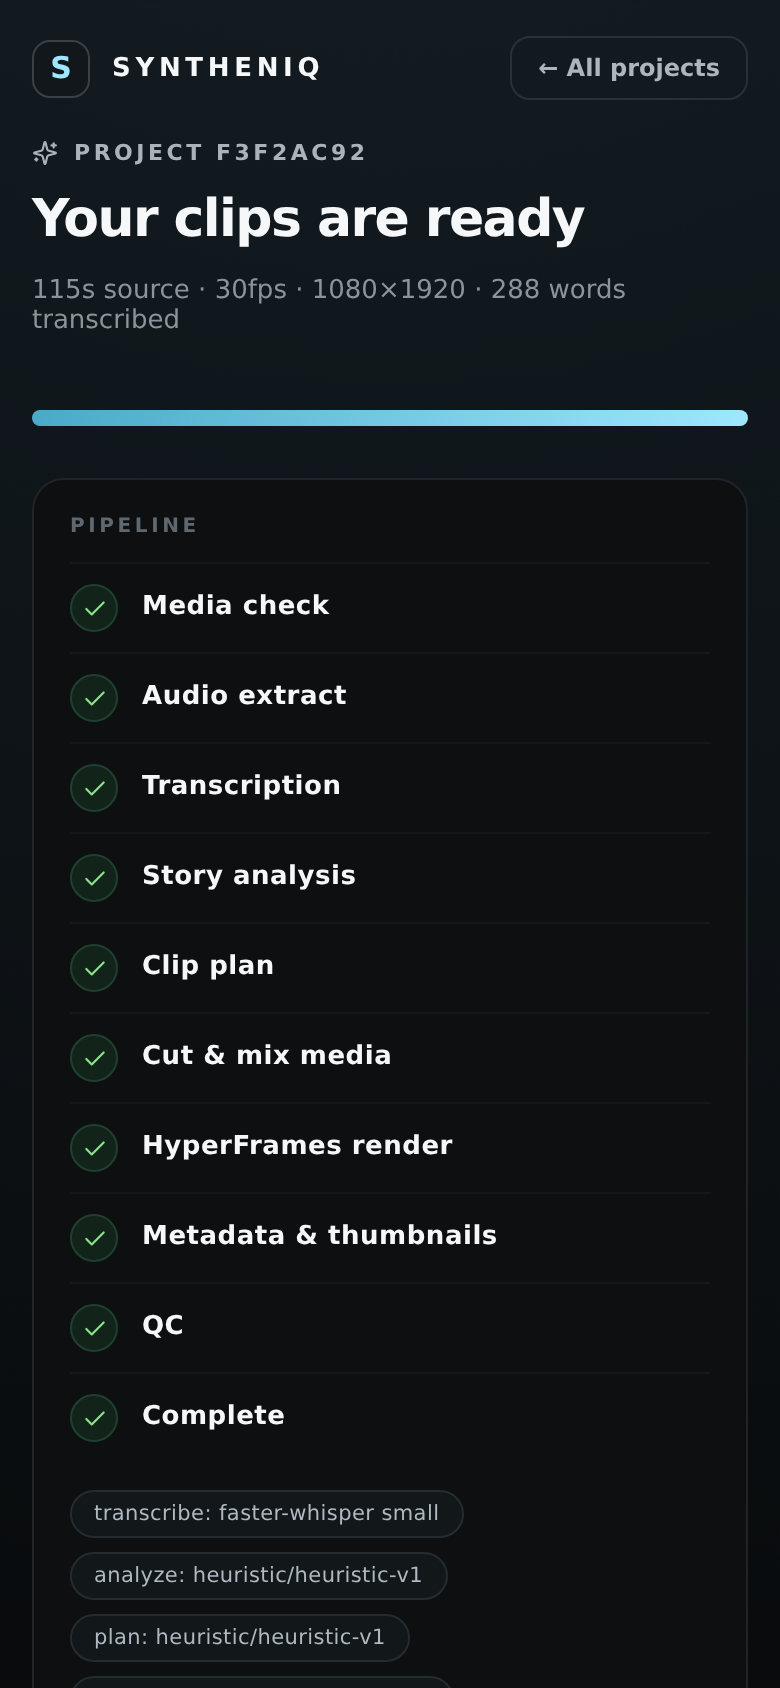
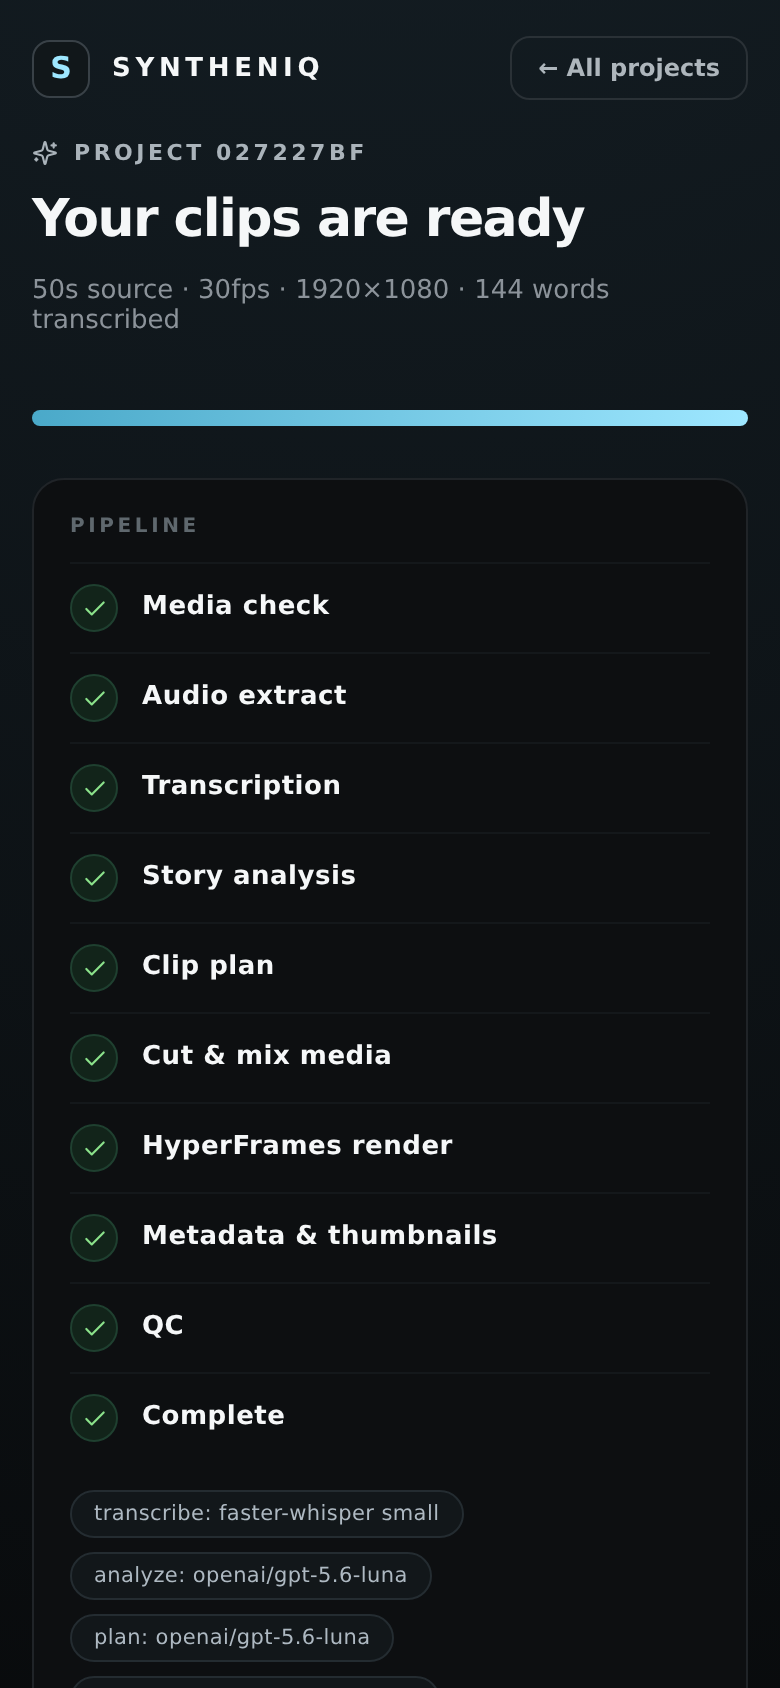
live-server E2E on deployed build (027227bf, all-openai, downloads verified); UI 5/5 screens verified incl. authed home; ui-shots captures home list

diff --git a/docs/SESSION_STATE.md b/docs/SESSION_STATE.md
@@ -34,7 +34,20 @@
   API contract: json_object, lowercase-json input guard, per-model temperature auto-learning)
 - `node apps/api/test/regression.mjs`      → expect 22/22 (cases A-D, real renders ~3.5 min)
 
+- E2E 027227bf DONE (1903s) — **LIVE-SERVER run on the deployed build**: all stages openai/gpt-5.6-luna
+  (video 22s, analyze 30s, plan 147s, package 8s); GPT chose 1 clip (full 50s source → 41.4s edit)
+  with rationale shown in UI; QC 1/1; HTTP download endpoints verified (MP4/thumb/meta all 200)
+- RECOVERY HARDENING (post reset #18): serve.sh now (a) auto-downloads BtbN gpl ffmpeg when drawtext
+  build + tarball are gone (tested from fully-clean state, 7s), (b) fixes pipefail SIGPIPE false
+  negative in drawtext check, (c) stale-dist guard: rebuilds when any src file is newer than build
+  output (caught a live incident: reset rolled tree back → heal built stale dist → server ran the
+  pre-fix OpenAI client). reapply1/2/4 got version-drift guards (committed source evolved past the
+  original anchors: jobs.ts stage loop, render.ts watchdog spawn, 2-arg heuristicPackage).
+
 ## UI visually verified (2026-09-17)
+- All 5 screens checked from real screenshots (docs/ui-*.png): passcode, authed home/upload
+  (Drop-a-video card, 512MB MP4/MOV), project pipeline view, clip cards (incl. GPT rationale
+  block above clips), posting package (per-platform captions + Copy).
 - All 4 screens checked from real screenshots (docs/ui-*.png): passcode screen, project pipeline
   view (10 stages + provider badges), clip cards (player, AI title, Download MP4/Thumbnail,
   per-platform caption cards + Copy). No rendering defects found.
